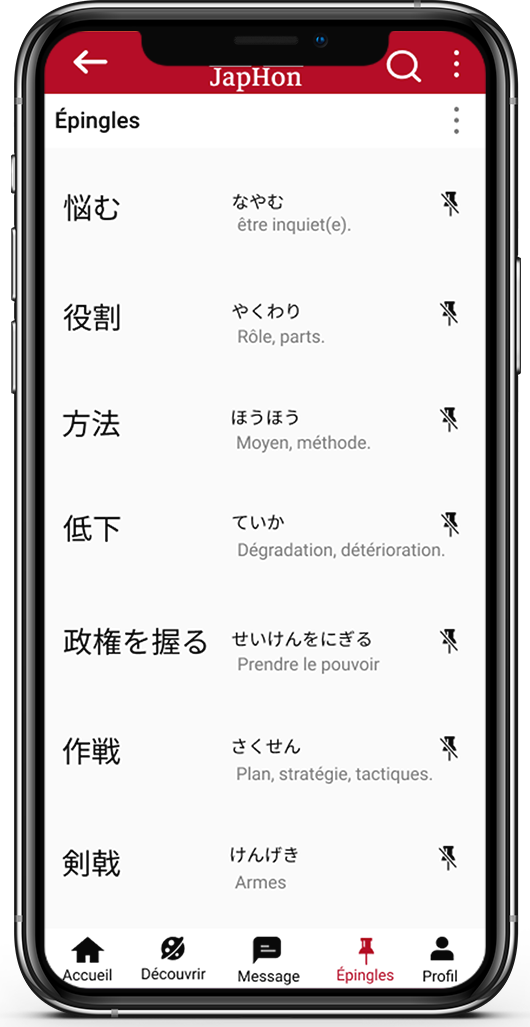
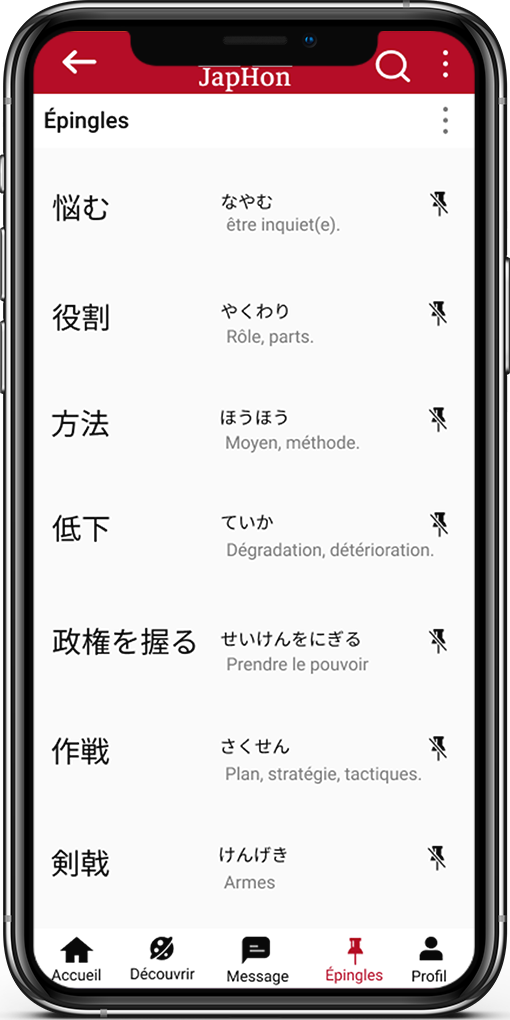
replace mockup images

diff --git a/pages/japhon.html b/pages/japhon.html
@@ -144,7 +144,7 @@ Licence URI: https://www.os-templates.com/template-terms
       </div>
        
        <div class="col-3">
-        <a data-caption="Fil d'actualité où l'on peut trouver les publications des utilisateurs"data-fancybox="gallery" href="../images/assets/japhon/feed-screen-big.png"><img src="../images/assets/japhon/feed-screen-big.png">Fil d'actualité</a>
+        <a data-caption="Fil d'actualité où l'on peut trouver les publications des utilisateurs"data-fancybox="gallery" href="../images/assets/japhon/feed.png"><img src="../images/assets/japhon/feed.png">Fil d'actualité</a>
        </div>
    
        <div class="col-3">
@@ -183,7 +183,7 @@ Licence URI: https://www.os-templates.com/template-terms
       </div>
     
       <div class="col-3">
-        <a data-caption="Écran contenant les informations du livre, le résumé, les avis ainsi que la possibilité d'ajouté celui-ci dans l'espace bibliothèque, ou bien de commencer à le lire."data-fancybox="gallery" href="../images/assets/japhon/intro-livre.png"><img src="../images/assets/japhon/intro-livre.png"> Détails du livre </a>
+        <a data-caption="Écran contenant les informations du livre, le résumé, les avis ainsi que la possibilité d'ajouté celui-ci dans l'espace bibliothèque, ou bien de commencer à le lire."data-fancybox="gallery" href="../images/assets/japhon/info-livre.png"><img src="../images/assets/japhon/info-livre.png"> Détails du livre </a>
       </div>
       <div class="col-3">
         <a data-caption="Écran de découvertes, contenant les oeuvres en tendance ainsi que les nouveautés"data-fancybox="gallery" href="../images/assets/japhon/tendances.png"><img src="../images/assets/japhon/tendances.png"> Découvertes </a>
